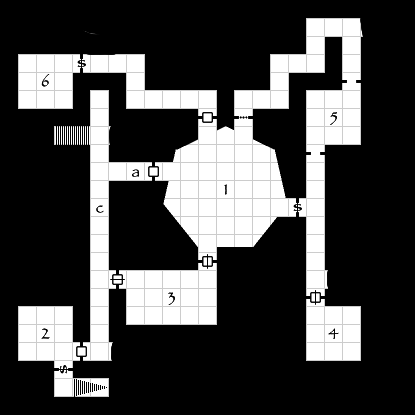
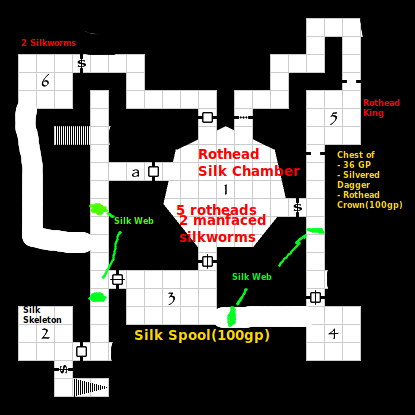
Updated 5 small dungeons

diff --git a/keeper_info/monsters/fiend.md b/keeper_info/monsters/fiend.md
@@ -28,7 +28,7 @@ A soul whose last act is self-destruction in order to inflict harm upon others.
 - Burn out: The soul flame leaps onto a target and erupts, dealing 1d8 necrotic damage
 
 ### Soul sucker
-A fleshy snake with a humanoid torso and a mouth like a lamprey. It feasts on the souls of the weak and weary. Soul suckers will run away from light sources.
+A fleshy snake with a humanoid torso and a mouth like a lamprey. It feasts on the souls of the weak and weary. Soul suckers will run away from light sources and are attracted to the souls of the weak.
 
 `Soul Sucker, XP: 10, Size: Small, HP: 8(2d6), AC: 8, Speed: 40ft, climb 40ft, [10, 10, 10, 10, 10, 10], Suck: +1 1d4 necrotic`
 - Spray Venom: One creature within 10 feet must make a DC8 CON saving throw or become paralyzed for 1 minute.
@@ -42,11 +42,21 @@ A fleshy snake with a humanoid torso and a mouth like a lamprey. It feasts on th
 - Burrow: Swarm may use action to enter an unconscious creature's nose, ears, and mouth. The creature rises up with 1 hit point, under leech control, and the swarm loses 1 hit point.
 
 ### Snork
-A four foot featherless bird with a fleshy toothed funnel instead of a beak.They feed on the brains of wounded creatures and are attracted by the sounds of agony. Snorks have a simbiotic relationship with soul suckers and will hunt together. Snorks will run away from light sources.
+A four foot featherless bird with a fleshy toothed funnel instead of a beak. They feed on the brains of wounded creatures and are attracted by the sounds of agony. Snorks have a simbiotic relationship with soul suckers and will hunt together. Snorks will run away from light sources.
 
 `Snork, XP: 100, HP: 42(6d6+6), AC: 13, [16, 12, 12, 10, 10, 10]`
 - Couple: Target must succeed a DC 12 STR save or else become grappled as the snork attaches to their head and begins searching for a weak in the skull with their internal beak.
 - Tap: If coupled, target must make a DC 12 CON save to halve 2d6 piercing damage. If this attack brings a creature to 0 hit points, the snork cracks into the skull and eats their brain.
+
+### Faceless Mistwalker
+A small, shriveled humanoid creature. While it isn't physically imposing, it's abilities render it a danger to skilled adventurers and even small armies. It features a bulbous head on a stickly body, two enormous glassy black eyes bulging from it's head. It's nose consists of two slits, and it has a lipless, tongueless, toothless mouth. It's skin ranges from light grey and smoothe when well-fed to wrinkly and dark grey when hungry. After hunting it's prey, it unhinges it's jaw and consumes them whole, it's form stretching to accomodate them. Though it can digest meat, it feeds almost entirely on fear. While alive, it's face cannot be perceived by the direct eye-contact.
+
+`Faceless Mistwalker, HP: 3(1d4-1), AC: 8, [7, 7, 8, 16, 20, 16]`
+- Faceless: those that look directly at the mistwalker see a blurred distortion where it's face should be, and must succeed a DC 15 WIS save to halve 3d6 non-lethal psychic damage. If this damage brings the creature below 1HP, they remain conscious, stable, and totally palaryzed.
+- Aura of blue flame: All flames within 500ft burn blue. The mistwalker can detect the position and size of these flames.
+- Aura of Mist: Within 100ft radius, a thick magical miasma forms, heavily obscuring sight. The creature can lift this mist partially or entirely at will.
+- Nightmare: One paralyzed target hallucinates, their mind returning to a traumatic memory. The mistwalker can control entities in this nightmare. If the creature dies in their nightmare, their body also dies.
+- Possession: A creature once paralyzed by the mistwalker becomes a conduit for it. Within the aura of blue flame, the mistwalker can possess this creature to access it's thoughts, sensory information, and assert control over it's body. A single action can be resisted by a DC 16 WIS save, and total control with a DC 11 WIS save.
 
 ### Grinder
 This spherical demon opens into two hemispheres joined by a central stalk. Teeth brim at the edges where these pieces meet, forming a 360 degree mouth. Grinders gnash their teeth constantly, compelled to chew through stone despite the pain it causes them. They have eyes on all sides, and three legs.

diff --git a/keeper_info/campaigns/korsarus/dungeons/D04/map.md b/keeper_info/campaigns/korsarus/dungeons/D04/map.md
@@ -1,1 +1,24 @@
 # D04
+Flesh Eaters + Muckbeast
+
+## Muckbeast
+This creature resembles a mass of mud with two human eyes and a gaping mouth. It's organs float freely within it's amorphous physiology, containing a layer of protection against it's heavily biodegrading mud-like muck. Muckbeasts can be found in swamps, but also wherever large amounts of decaying organic matter can be found, such as dumps, sewers, and battlefields littered with bodies.
+
+`Muckbeast, Size: large, HP: 33(3d12+9), AC: 10, Speed: 15ft [12,8,16,3,7,3], Smother +5 3d6+3 necrotic`
+- Biodegrading muck: Organic matter such as wood that touches the creature is quickly eaten away, destroying weapons such as spears and clubs used against it. An organic creature that touches the muckbeast takes 1d8 necrotic damage.
+- Much stream(recharge 5-6): The muckbeast heaves and spews muck onto one creature within 10ft. If the creature is organic, it must make a DC 13 CON save to halve 3d6 necrotic damage.
+
+
+## Flesh Eaters
+Once humanoids, but corrupted into monsters. Their minds are warped to feel no remorse, and to crave uncorrupted humanoid flesh. If one consumes the flesh of a flesh eater, they become corrupted and themself become a flesh eater. Flesh eaters seek safety in numbers, expanding their populations by force-feeding captured humanoids pieces of themselves. Their regenerative powers grow back flesh and limbs missing from them, but without skin. Instead of blood, flesh eaters ooze a black fluid.
+
+`Flesh Eater, Size: medium, HP: 28(2d12+4), AC: 11, Speed: 30ft [14,12,14,12,7,11], Spear +4 1d8+2`
+- Rapid regeneration[Recharge 5-6]: Action, Flesh eater regains 2d12 HP, regrowing any missing limbs.
+
+
+### Diplomat's Companion
++1 dagger
+When you wield this dagger, you may expend a stamina die to cast the comprehend languages spell.
+
+### Handy Hooks
+A pair of +1 sickles. When both are wielded by the the same creature, they gain a climbing speed equal to their movement speed.

diff --git a/keeper_info/campaigns/korsarus/dungeons/D02/map.md b/keeper_info/campaigns/korsarus/dungeons/D02/map.md
@@ -1,1 +1,26 @@
 # D02
+Rotheads + Manface silkworm
+
+## Rothead King
+A rothead king's host brain still works, and the fungus hijacks it in the same way it hijacks the rest of the bodies of regular rotheads. Without a king, a rothead colony will collapse.
+
+`Rothead King, XP: 50, HP: 40 (3d6+4), AC: 10, [14, 10, 14, 5, 10, 7], Bash +3 1d8+1 bludgeoning, Bite +3 1d4 piercing, DC 13 CON save or contract Bogrot`
+- Resistant: Non-magical physical
+
+## Rothead
+A fungus hijacking the muscles of their braindead host.
+
+`Rothead, XP: 50, HP: 12(2d4+4), AC: 10, [14, 10, 14, 5, 10, 7], Bash +3 1d8+1 bludgeoning, Bite +3 1d4+2 piercing, DC 13 CON save or contract Bogrot`
+- Resistant: Non-magical physical
+
+## Rotmutt
+A fungus hijacking the muscles of their braindead host.
+
+`RotMutt, XP: 25, HP: 6 (1d4+2), AC: 10, [14, 10, 14, 5, 10, 7], Bash +3 1d8+1 bludgeoning, Bite +3 1d4 piercing, DC 13 CON save or contract Bogrot`
+- Resistant: Non-magical physical
+
+## Manface Silkworm
+The larval form of a dragon beetle, the manface silkworm is a 10ft long work with a special organ on it's front that can morph into the shape of a human face, move to talk, and even has false lungs and vocal cords to produce sounds. When humanoids are close to it, it will rear up and attempt to appear as a humanoid.
+
+`Manface Silkworm, Size: large, HP: 8(2d4), AC: 10, Speed: 20ft [10,14,10,10,10,3], Stinger +3 1d4 piercing 3d4 poison`
+- Silk spray: DC 14 STR save, or creature is restrained and can only escape by using their action to succeed a DC 14 STR check.

diff --git a/core_rules.md b/core_rules.md
@@ -240,7 +240,7 @@ There is an assortment of actions you may use in combat.
 - Dodge: Attack rolls made against you are made with disadvantage if you can see the attacker. Dexterity saving throws are made with advantage.
 - Help: You can aid another creature in completing a task, giving them advantage with it. Or, you may distract an enemy you are within 5ft of, giving the first attack made against them advantage.
 - Hide: Provided you have entered a space that is obscured from sight, you may hide. The keeper will likely ask for a stealth check made against passive nearby creature's perception.
-- Ready: You declare an action(and potentially movement) that you will use under a certain condition(such as if a creature turns hostile). If that condition is met, your readied action is triggered. If you prepare to cast a spell, it uses any relevant resources as if you had actually cast the spell, regardless of whether it was triggered.
+- Ready: You declare an action(and potentially movement) that you will use under a certain condition(such as if a creature turns hostile). If that condition is met, your readied action is triggered, using your reaction to perform it. If you prepare to cast a spell, it uses any relevant resources as if you had actually cast the spell, regardless of whether it was triggered.
 - Search: You seek to find something. Your keeper will likely request an investigation or perception check.
 
 #### How to make attack rolls

diff --git a/keeper_info/campaigns/korsarus/dungeons/D03/map.md b/keeper_info/campaigns/korsarus/dungeons/D03/map.md
@@ -1,1 +1,25 @@
 # D03
+Sentinel + Giant Leech
+
+## Sentinel
+A partially biological weapon that outlived it's use in the Titan wars. This creature has an organic body resembling a werewolf, with their face, torso, hips and claw tips replaced with lost tech mechanical components. Their face visor displays a glowing image of their face, and opens to allow them to eat. Some Sentinels have overcome their original programming, but most in the wild are still seeking out and killing any armed humanoids they encounter. The Sentinel will not attack humanoids that are unarmed, or who discard their weapons. They will confiscate discarded weapons and destroy them, however. Their organic portions can be regenerated from the mechanical portions.
+
+`Sentinel, Size: medium, HP: 42(3d12+6), AC: 15, Speed: 35ft, climb 30ft [16,16,12,12,7,15], Claws +5 2d6+3 slashing, Wrist Blaster(60ft) +5 1d6+3 fire damage`
+- Multi-attack: May make three Wrist Blaster attacks
+- Jump Jet(1/day): Gain 60ft fly speed until start of next turn. 
+- Seismic scan: Can sense any object or creature touching the ground within 100 feet, even when they are behind cover.
+
+
+## Giant Leech
+```
+Giant Leech
+Medium Beast
+XP:
+HP: 12(3d6)
+AC: 13
+Speed: 5ft, 40ft swim
+|STR|DEX|CON|INT|WIS|CHA|
+| 16| 14| 12|  3| 14|  3|
+Attacks:
+Bite +5 2d6+3 piercing
+```

diff --git a/keeper_info/campaigns/korsarus/dungeons/D01/map.md b/keeper_info/campaigns/korsarus/dungeons/D01/map.md
@@ -1,1 +1,25 @@
 # D01:
+
+Slime(Any) + Dire Wolf
+
+## Dire Wolf
+```
+Dire Wolf
+Large beast
+XP: 200
+HP: 21 (3d8+9)
+AC: 12
+Speed: 40ft
+|STR|DEX|CON|INT|WIS|CHA|
+| 16| 12| 16|  4| 12|  4|
+Pack tactics: When attacking a target adjacent to a friendly, the wolf
+gains advantage on the attack.
+Bite +5 2d6+3
+```
+
+## Grey Slime
+
+`Grey Slime, XP: 25, HP: 7(1d12), AC: 8, Speed: spider climb 20ft, [16, 10, 14, 10, 10, 10]`
+- Cammoflauge: The gray slime looks just like wet rocks when still.
+- Corrosion: Melee attacks against a Grey Slime corrode the weapon, subtracting -1 from damage dealt by attacks.
+- Smother +4 1d6+2 acid damage. If target is wearing armor, the AC falls by -1
